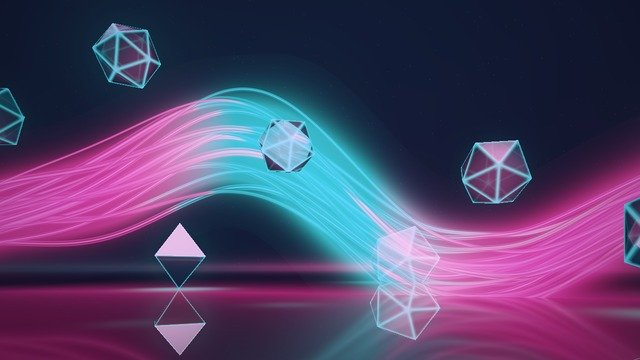
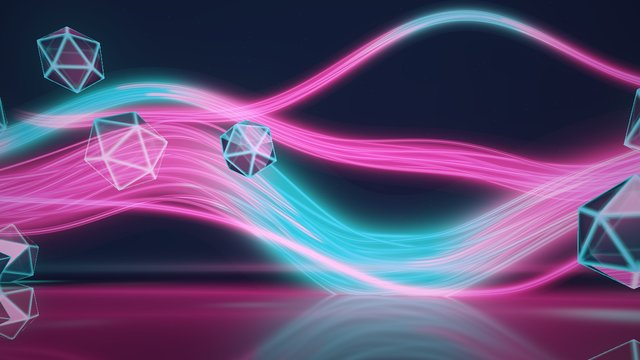
Ribbons: several ribbons of different sizes, flowing both ways
Syd: "There should be multiple ribbons of non uniform size. Some of the
shapes should travel right and not left."

- Four ribbons instead of one, of clearly different sizes: the big hero
  sheaf (18 strands) runs low through the middle, a medium one (12) rides
  above and behind it, a thin thread (7) sits high at the back and a fine
  hairline (4) runs low up front. Each has its own height, depth and slow
  waves, so they cross with navy between them, as in the film's screens.
- Both directions: the hero and the hairline flow right to left; the
  medium ribbon and the thread flow left to right, and their cyan pulses
  race the way they flow. Three of the eight glass shapes now drift left
  to right, a little slower; the rest still go left.
- Each ribbon fires its cyan band at its own point in the beat, so the
  bands ripple through one after another instead of all at once. Pink at
  rest, eased in and out exactly as before; no raw bass or beat jumps.
- Cost: the ribbons are written out one by one so each one's settings fold
  at compile time, the small ones skip rays that can't reach them, and the
  floor and glass reflections show only the hero sheaf. About +23% over
  the previous Ribbons in the harness.

Only the Ribbons doc comment, shader block and thumbnail change. Compiles
in glslangValidator and Mesa; check-modes.sh passes with 16 modes.

diff --git a/VisualiserMac/Sources/VisualiserMac/Render/FunShaders.swift b/VisualiserMac/Sources/VisualiserMac/Render/FunShaders.swift
@@ -1575,31 +1575,40 @@ extension FunShaders {
 extension FunShaders {
     // MARK: - Ribbons
 
-    /// One braided sheaf of fine glowing silk strands (18 round strands, each a
-    /// few hairline fibres, around a luminous core) weaves through several
-    /// small clear glass polyhedra at different depths, in a dark navy room
-    /// above a glossy floor: the look of the screens in the AudioVane film.
-    /// The ribbon is hot pink at rest; every beat launches a band of bright
-    /// cyan that races right to left along the strands, some strands lighting
-    /// a moment before others so it shimmers through the sheaf, then shrinks
-    /// away strand by strand so the ribbon flows back to pink. Every band eases
-    /// in and out, with a soft head and tail. The glass is ray-traced
-    /// exactly (each shape is a set of paired face planes, so there is no
-    /// raymarching loop): solid clear faces that reflect the lights, refract
-    /// the ribbon behind them, catch pink light inside and burn cyan along
-    /// their edges, and shapes far from the lens's focus go soft. The floor
-    /// mirrors it all, pulses included. Colours are chosen to land as pink and
-    /// cyan after the NEON grade. The whole scene slides right to left past
-    /// the camera, so near glass and near stretches of ribbon cross faster
-    /// than far ones (parallax), and each shape comes back in from the right
-    /// once it has left. The slide speeds up with uScroll. Everything is
-    /// smoothed so nothing snaps from frame to frame: instead of the raw bass
-    /// and beat strength, a soft swell on the beat clock (easing in over about
-    /// a third of a beat, dying away over the next one or two) bends, widens
-    /// and brightens the ribbon and swells the glass; the glass turns and the
-    /// ribbon reshapes on an eased beat clock that never stops; the spectrum
-    /// shapes the ribbon gently along its length, and the treble makes the
-    /// edges and the dust sparkle a little.
+    /// Several braided sheaves of fine glowing silk, of clearly different
+    /// sizes, weave through small clear glass polyhedra at different depths
+    /// in a dark navy room above a glossy floor: the look of the screens in
+    /// the AudioVane film. A big hero sheaf (18 round strands, each a few
+    /// hairline fibres, around a luminous core) runs low through the middle;
+    /// a medium one (12 strands) rides above and behind it, a thin thread
+    /// sits high at the back and a fine hairline runs low up front. Each sits
+    /// at its own height and depth and undulates on its own slow waves, so
+    /// they cross with navy between them. The ribbons are hot pink at rest;
+    /// every beat launches a band of bright cyan that races along each one
+    /// the way it flows, some strands lighting a moment before others so it
+    /// shimmers through, then shrinks away strand by strand so the ribbon
+    /// flows back to pink. Each ribbon fires at its own point in the beat, so
+    /// the bands ripple through one after another rather than all at once,
+    /// and every band eases in and out with a soft head and tail. The glass
+    /// is ray-traced exactly (each shape is a set of paired face planes, so
+    /// there is no raymarching loop): solid clear faces that reflect the
+    /// lights, refract the hero ribbon behind them, catch pink light inside
+    /// and burn cyan along their edges, and shapes far from the lens's focus
+    /// go soft. The floor mirrors the hero ribbon and the glass, pulses
+    /// included, and glows pink under the ribbons. Colours are chosen to land
+    /// as pink and cyan after the NEON grade. The scene slides past the
+    /// camera in both directions: the hero and the low hairline flow right to
+    /// left, the medium ribbon and the high thread flow left to right, and
+    /// most glass drifts left while three shapes drift right, a little
+    /// slower. Near glass and near stretches of ribbon cross faster than far
+    /// ones (parallax), and each shape comes back in from the other side once
+    /// it has left. The slide speeds up with uScroll. Everything is smoothed
+    /// so nothing snaps from frame to frame: instead of the raw bass and beat
+    /// strength, a soft swell on the beat clock (easing in over about a third
+    /// of a beat, dying away over the next one or two) bends, widens and
+    /// brightens the ribbons and swells the glass; the glass turns and the
+    /// ribbons reshape on an eased beat clock that never stops; the treble
+    /// makes the edges and the dust sparkle a little.
     /// In silence it dims and goes pink with no pulses, but keeps a slow drift
     /// (on uClock), by design.
     static let ribbons = """
@@ -1654,17 +1663,43 @@ extension FunShaders {
         return (swellAt(ph) + swellAt(ph + 1.0) + swellAt(ph + 2.0) + swellAt(ph + 3.0)) * 1.2 * uActive;
     }
     float gSwell;   // beatSwell(), worked out once per pixel at the top of main()
+    float gSpec;    // the low end of the spectrum, worked out once per pixel
 
-    // How cyan the ribbon is at x (position across its sheet) for a strand that
-    // lights `delay` beats late: every beat launches a band of bright cyan that
-    // races right to left along the strands. It's born off screen to the right,
-    // eases in, and fades out again over the next beat and a half, with a soft
-    // head (`sharp`) and a long soft tail, so the ribbon flows back to pink
-    // without a snap. The band from the beat before is still on its way out.
-    // In silence there are none.
+    // The ribbons, from one big hero sheaf down to thin threads, each at its own
+    // height and depth with its own slow undulation. Some flow left with the
+    // scene, some flow right against it, and their pulses race the way they flow.
+    //  x: base height  y: wave height  z: half-width of the sheaf  w: strands
+    const vec4 kRibShape[4] = vec4[4](
+        vec4(0.08, 0.32, 0.24, 18.0),
+        vec4(0.95, 0.34, 0.145, 12.0),
+        vec4(-0.26, 0.24, 0.014, 4.0),
+        vec4(1.9, 0.45, 0.07, 7.0));
+    //  x: strand radius  y: flow (+ left, - right, and how fast)  z: depth  w: depth swing
+    const vec4 kRibFlow[4] = vec4[4](
+        vec4(0.036, 1.0, 0.1, 0.65),
+        vec4(0.028, -0.8, 1.55, 0.5),
+        vec4(0.006, 1.3, -1.05, 0.3),
+        vec4(0.018, -0.6, 2.7, 0.4));
+    //  x, y: wave frequencies  z: phase  w: beat offset of its pulses
+    const vec4 kRibWave[4] = vec4[4](
+        vec4(1.2, 2.28, 0.0, 0.0),
+        vec4(0.85, 1.85, 1.7, 0.37),
+        vec4(1.55, 2.9, 3.1, 0.61),
+        vec4(0.75, 1.6, 4.4, 0.83));
+
+    // How far ribbon k's pattern has slid along itself.
+    float ribbonShift(int k) { return sceneShift() * kRibFlow[k].y; }
+
+    // How cyan the ribbon is at x (position across its sheet, measured the way it
+    // flows) for a strand that lights `delay` beats late: every beat launches a
+    // band of bright cyan that races along the strands, born off screen, easing
+    // in and fading out again over the next beat and a half, with a soft head
+    // (`sharp`) and a long soft tail, so the ribbon flows back to pink without a
+    // snap. Each ribbon's bands set off at their own point in the beat (`off`),
+    // so they never all fire at once. In silence there are none.
     float pulseAmp(float ph) { return smoothstep(0.0, 0.2, ph) * (1.0 - smoothstep(0.45, 1.5, ph)); }
-    float ribbonPulse(float x, float delay, float spd, float energy, float sharp) {
-        float ph = fract(uBeats) - delay;
+    float ribbonPulse(float x, float off, float delay, float spd, float energy, float sharp) {
+        float ph = fract(uBeats - off) - delay;
         float s0 = x - 4.4 + spd * ph;                      // behind this beat's front
         float s1 = s0 + spd;                                // ... and the last beat's
         float p0 = exp(-max(s0 - 1.1, 0.0) * 1.2 - max(-s0, 0.0) * sharp) * pulseAmp(ph);
@@ -1672,41 +1707,47 @@ extension FunShaders {
         return max(p0, p1) * energy;
     }
 
-    // Light from the ribbon at point q on its plane: one braided sheaf of fine
+    // Light from ribbon k at point q on its plane: a braided sheaf of fine
     // glowing strands, hot pink, with cyan pulses racing through it on the beat.
     // soft > 0 blurs it, for reflections in the floor.
-    vec3 ribbonLight(vec2 q, float soft) {
+    vec3 ribbonLight(vec2 q, float soft, int k) {
+        vec4 shp = kRibShape[k], flw = kRibFlow[k], wav = kRibWave[k];
+        float dir = sign(flw.y);
+        float size = shp.z / 0.3;                            // 1 for the hero sheaf
         float turn = beatTurn();
-        float X = q.x + sceneShift();                        // position along the ribbon, sliding left
-        float x01 = clamp(q.x / 7.0 + 0.5, 0.0, 1.0);
+        float X = q.x + ribbonShift(k);                      // position along the ribbon
+        float xf = q.x * dir;                                // ... measured the way it flows
         float edge = smoothstep(-4.8, -3.6, q.x) * smoothstep(4.8, 3.6, q.x);
-        float spec = 0.55 * (ribbonSpec(0.05) + ribbonSpec(0.15) + ribbonSpec(0.25)) / 3.0
-                   + 0.45 * (ribbonSpec(0.02 + x01 * 0.5) + ribbonSpec(0.1 + x01 * 0.5) + ribbonSpec(0.18 + x01 * 0.5)) / 3.0;
-        // Broad waves; bass bends the sheaf harder and each beat reshapes it a little.
-        float amp = (0.36 + 0.05 * spec + 0.2 * gSwell) * mix(0.75, 1.0, uActive);
-        float ph = turn * 0.45;
-        float s = uScroll * 0.3;                             // a gentle ripple along the ribbon on top of the slide
-        float a1 = X * 1.2 + s + ph;
-        float a2 = X * 2.28 - s * 0.6 + ph * 1.7;
-        float yc = 0.12 + amp * sin(a1) + amp * 0.35 * sin(a2);
-        float lo = kFloorY + 0.18;                           // skim the floor rather than sink into it
+        // Broad waves; the beat swell bends the sheaf a little harder.
+        float amp = shp.y * (1.0 + (0.14 * gSpec + 0.55 * gSwell) * size) * mix(0.75, 1.0, uActive);
+        float ph = turn * 0.45 + wav.z;
+        float s = uScroll * 0.3 * dir;                       // a gentle ripple along the ribbon on top of the slide
+        float a1 = X * wav.x + s + ph;
+        float a2 = X * wav.y - s * 0.6 + ph * 1.7;
+        float yc = shp.x + amp * sin(a1) + amp * 0.35 * sin(a2);
+        float lo = kFloorY + shp.z * 0.6 + 0.06;             // skim the floor rather than sink into it
         yc = 0.5 * (yc + lo + sqrt((yc - lo) * (yc - lo) + 0.004));
-        float slope = amp * 1.2 * (cos(a1) + 0.665 * cos(a2));
+        float slope = amp * (wav.x * cos(a1) + 0.35 * wav.y * cos(a2));
         float norm = inversesqrt(1.0 + slope * slope);
         float dc = abs(q.y - yc) * norm;
+        // Far from a small ribbon there's nothing left of its glow to draw.
+        if (k > 0 && dc > 1.4 * sqrt(size) + soft * 24.0) return vec3(0.0);
         // The sheaf twists as it travels: fanned wide where it faces you, gathered
         // where it turns, and each strand weaves a little on its own so they cross.
-        float width = 0.3 * (1.0 + 0.3 * gSwell) * (0.75 + 0.25 * sin(X * 0.6));
-        float twist = X * 0.55 - uScroll * 0.25 + turn * 0.2;
+        float width = shp.z * (1.0 + 0.3 * gSwell) * (0.75 + 0.25 * sin(X * 0.6 + wav.z));
+        float twist = X * 0.55 - uScroll * 0.25 * dir + turn * 0.2 + wav.z;
         float face = cos(twist);
-        const float sw = 0.036;                              // strand radius: fine silk
+        float sw = flw.x;                                    // strand radius: fine silk
         float energy = uActive;
         const float spd = 7.5;                               // world units per beat
         vec3 bundle = vec3(0.0);
-        float pc = smoothstep(0.15, 0.95, ribbonPulse(q.x, 0.06, spd, energy, 1.2));      // the wave through the sheaf as a whole
+        float pc = smoothstep(0.15, 0.95, ribbonPulse(xf, wav.w, 0.06, spd, energy, 1.2));   // the wave through the sheaf as a whole
+        vec3 hotC = mix(ribbonPink, ribbonCyan, pc);
         // Only pixels near the sheaf pay for its strands.
-        if (dc < width * 1.6 + 0.12 + soft * 12.0) {
+        if (dc < width * 1.6 + 0.12 * size + soft * 12.0) {
             vec3 strands = vec3(0.0);
+            int n = int(shp.w);
+            float fn = shp.w;
             // Per-strand phases advance by a fixed angle each strand (cheap rotations, not sin per strand).
             vec2 pw = vec2(sin(X * 0.8), cos(X * 0.8));      // thickness wobble, steps 1.3 rad per strand
             vec2 ps = vec2(sin(X * 0.9 - uScroll * 0.4), cos(X * 0.9 - uScroll * 0.4));   // shimmer, steps 2.3 rad
@@ -1714,9 +1755,10 @@ extension FunShaders {
             const mat2 stepS = mat2(-0.6663, -0.7457, 0.7457, -0.6663);
             float aa = max(soft, 0.0025);
             for (int i = 0; i < kStrands; i++) {
+                if (i >= n) break;
                 float fi = float(i);
                 float h1 = fract(fi * 0.6180), h2 = fract(fi * 0.7549 + 0.31), h3 = fract(fi * 0.5698 + 0.17);
-                float u = fi / float(kStrands - 1) * 2.0 - 1.0;
+                float u = fi / (fn - 1.0) * 2.0 - 1.0;
                 float off = width * (u * (0.5 + 0.5 * abs(face)) + 0.45 * sin(X * (1.1 + 0.25 * h1) + fi * 2.4 + turn * 0.3));
                 float sd = (q.y - yc - off) * norm;
                 float d = abs(sd);
@@ -1726,10 +1768,9 @@ extension FunShaders {
                 float tube = sqrt(1.0 - x * x);                       // round strand: hot in the middle, deep at the rim
                 // each strand is itself a few hairline fibres, read where it's sharp enough
                 float fib = mix(0.55 + 0.45 * cos(sd / (w + aa) * 9.4 + fi * 1.7), 1.0, smoothstep(0.3, 0.8, aa / w));
-                // some strands catch the wave before others, so it shimmers through the sheaf
-                // as a band fades, its strands drop back to pink one by one rather than
-                // all turning pale together
-                float pulse = smoothstep(0.08 + 0.55 * h2, 0.28 + 0.55 * h2, ribbonPulse(q.x, h3 * 0.14, spd, energy, 3.0));
+                // some strands catch the wave before others, so it shimmers through the sheaf;
+                // as a band fades, its strands drop back to pink one by one
+                float pulse = smoothstep(0.08 + 0.55 * h2, 0.28 + 0.55 * h2, ribbonPulse(xf, wav.w, h3 * 0.14, spd, energy, 3.0));
                 vec3 hot = mix(ribbonPink, ribbonCyan, pulse);
                 vec3 deep = mix(ribbonDeep, ribbonTeal, pulse);
                 float t2 = tube * tube, t8 = t2 * t2; t8 *= t8;
@@ -1740,36 +1781,61 @@ extension FunShaders {
                 pw = stepW * pw;
                 ps = stepS * ps;
             }
-            vec3 hotC = mix(ribbonPink, ribbonCyan, pc);
             // the strands' shared glow: bright through the sheaf, falling off outside it
-            float halo = 5.0 * exp(-max(dc - width * 0.9, 0.0) / (0.06 + soft * 3.0));
+            float halo = 5.0 * exp(-max(dc - width * 0.9, 0.0) / (0.06 * size + soft * 3.0));
             bundle = strands + hotC * halo * 0.15
-                   + hotC * mix(vec3(1.0, 0.55, 0.8), vec3(0.3, 1.0, 0.95), pc) * exp(-dc / (width * 0.45 + 0.02 + soft * 4.0)) * 0.55;   // thick luminous core
+                   + hotC * mix(vec3(1.0, 0.55, 0.8), vec3(0.3, 1.0, 0.95), pc) * exp(-dc / (width * 0.45 + 0.02 * size + soft * 4.0)) * 0.55;   // thick luminous core
         }
         // the glow the sheaf throws on the air around it
-        bundle += mix(ribbonPink, ribbonCyan, pc) * exp(-dc / (0.22 + soft * 4.0)) * 0.12;
+        bundle += hotC * exp(-dc / (0.2 * sqrt(size) + soft * 4.0)) * 0.08 * sqrt(size);
         float glow = (0.45 + 0.55 * uActive) * (0.95 + 0.3 * gSwell);
         return bundle * 1.1 * edge * glow / (1.0 + soft * 20.0);
     }
 
-    // The ribbons live on a curved sheet that slides left with the scene, so
+    // Each ribbon lives on its own curved sheet that slides with its flow, so
     // stretches of ribbon swing towards the camera (and move faster) and back
     // away again. Where a ray meets it (a few fixed-point steps), or -1.
-    float ribbonDepth(float x) { return 0.65 * sin((x + sceneShift()) * 0.45 + 0.9) + 0.1; }
-    float ribbonT(vec3 ro, vec3 rd) {
+    float ribbonDepth(float x, int k) {
+        return kRibFlow[k].z + kRibFlow[k].w * sin((x + ribbonShift(k)) * 0.45 + 0.9 + kRibWave[k].z);
+    }
+    float ribbonT(vec3 ro, vec3 rd, int k) {
         if (abs(rd.z) < 1e-3) return -1.0;
-        float t = (ribbonDepth(ro.x) - ro.z) / rd.z;
-        for (int i = 0; i < 4; i++) t = (ribbonDepth(ro.x + rd.x * max(t, 0.0)) - ro.z) / rd.z;
+        float t = (ribbonDepth(ro.x, k) - ro.z) / rd.z;
+        int steps = k == 0 ? 4 : 2;                          // the small ones' sheets bend less
+        for (int i = 0; i < 4; i++) {
+            if (i >= steps) break;
+            t = (ribbonDepth(ro.x + rd.x * max(t, 0.0), k) - ro.z) / rd.z;
+        }
         return t;
     }
 
-    // The ribbons as seen along a ray, or nothing if the ray doesn't reach them.
-    vec3 ribbonsAlong(vec3 ro, vec3 rd, float soft, float tMax) {
-        float t = ribbonT(ro, rd);
+    // One ribbon as seen along a ray, or nothing if the ray doesn't reach it.
+    // Blur is soft + softT per unit of distance, never thinner than a pixel.
+    vec3 ribbonAlong(vec3 ro, vec3 rd, float soft, float softT, float tMax, int k) {
+        if (k > 0) {
+            // A cheap first look: rays that pass well above or below the band
+            // this ribbon can wave through never reach its glow.
+            float t0 = (kRibFlow[k].z - ro.z) / rd.z;
+            float band = 2.6 * kRibShape[k].y + 1.4 * sqrt(kRibShape[k].z / 0.3)
+                       + abs(rd.y / rd.z) * kRibFlow[k].w * 1.2 + (soft + (abs(t0) + 3.0) * (softT + 0.7 / uResolution.y)) * 24.0;
+            if (abs(ro.y + rd.y * t0 - kRibShape[k].x) > band) return vec3(0.0);
+        }
+        float t = ribbonT(ro, rd, k);
         if (t <= 0.0 || t > tMax) return vec3(0.0);
         vec3 p = ro + rd * t;
         if (p.y < kFloorY) return vec3(0.0);
-        return ribbonLight(p.xy, soft + t * 0.7 / uResolution.y);   // never thinner than a pixel
+        return ribbonLight(p.xy, soft + t * (softT + 0.7 / uResolution.y), k);
+    }
+
+    // All the ribbons along a ray (they glow, so their light adds). Written out
+    // one by one, so each ribbon's settings are fixed when the shader compiles.
+    // Reflections in the floor and the glass (`all` false) show only the hero
+    // sheaf, which keeps the cost down.
+    vec3 ribbonsAlong(vec3 ro, vec3 rd, float soft, float softT, float tMax, bool all) {
+        vec3 acc = ribbonAlong(ro, rd, soft, softT, tMax, 0);
+        if (all) acc += ribbonAlong(ro, rd, soft, softT, tMax, 1) + ribbonAlong(ro, rd, soft, softT, tMax, 2)
+                      + ribbonAlong(ro, rd, soft, softT, tMax, 3);
+        return acc;
     }
 
     // The room: deep navy, a little lighter up high, a faint pink haze behind the
@@ -1804,10 +1870,11 @@ extension FunShaders {
     }
 
     // Where each glass shape is, how it's turned, and how big it is. Each one
-    // sits at its own depth and slides left with the scene; once it's off the
-    // left edge it comes back in from the right (a little higher or lower, a bit
-    // bigger or smaller, turned differently), so the stream never runs dry. The
-    // starting points are staggered so the shapes don't travel as one clump.
+    // sits at its own depth and slides with the scene, most of them left and a
+    // few the other way; once it's off one edge it comes back in from the other
+    // (a little higher or lower, a bit bigger or smaller, turned differently),
+    // so the stream never runs dry. The starting points are staggered so the
+    // shapes don't travel as one clump.
     void gemPose(int j, out vec3 c, out vec2 ang, out float r, out int faces) {
         float fj = float(j);
         if (j == 0)      { c = vec3(0.0, -0.40, -1.10); r = 0.17; faces = 10; }
@@ -1821,7 +1888,9 @@ extension FunShaders {
         // Wrap span: wide enough that the jump happens off screen at this depth.
         float depth = c.z + 3.4;
         float span = 2.0 * (depth * 0.85 + r) + 0.4;
-        float x = fract(fj * 0.375 + 0.62) * span - sceneShift();
+        // Three of them drift the other way, left to right, a little slower.
+        float flow = (j == 1 || j == 3 || j == 6) ? -0.7 : 1.0;
+        float x = fract(fj * 0.375 + 0.62) * span - sceneShift() * flow;
         float lap = floor(x / span);
         c.x = x - lap * span - 0.5 * span;
         float lh = hash11(lap * 3.7 + fj * 11.3);
@@ -1949,13 +2018,13 @@ extension FunShaders {
                 behind = skyColour(fromGem(reflect(d1, -nf2), ang)) * 1.3;
             } else {
                 vec3 wd2 = fromGem(d2, ang);
-                behind = skyColour(wd2) + ribbonsAlong(wOut, wd2, 0.002, 30.0) * 0.7;
+                behind = skyColour(wd2) + ribbonsAlong(wOut, wd2, 0.002, 0.0, 30.0, false) * 0.7;
             }
             col += behind * vec3(0.8, 1.0, 1.05) * (1.0 - fres) * (1.0 + 0.5 * facet);
             vec2 edgeBack = gemEdge(pOut, faces, h, edgeW * 1.2);
             // A ribbon passing through the glass lights it from inside.
-            float tz = ribbonT(ro, rd);
-            if (tz > tHit && tz < tHit + (tf - tn)) col += ribbonLight((ro + rd * tz).xy, 0.0) * 0.6;
+            float tz = ribbonT(ro, rd, 0);
+            if (tz > tHit && tz < tHit + (tf - tn)) col += ribbonLight((ro + rd * tz).xy, 0.0, 0) * 0.6;
             col += glassCyan * (edgeBack.x * 0.12 + edgeBack.y * 0.15) * lit * (1.0 - 0.7 * blur);
         }
         vec2 edgeGlow = gemEdge(pIn, faces, h, min(edgeW * 3.0, h * 0.08));
@@ -1967,6 +2036,7 @@ extension FunShaders {
 
     void main() {
         gSwell = beatSwell();
+        gSpec = (ribbonSpec(0.05) + ribbonSpec(0.15) + ribbonSpec(0.25)) / 3.0;
         vec2 p = screenP();
         // Camera sits low by the glossy floor and sways slowly (on the
         // sound-gated clock); it leans in a little on the bass.
@@ -1997,18 +2067,18 @@ extension FunShaders {
             vec3 refl = skyColour(rr) * 0.8;
             int j2; float t2;
             if (nearestGem(fp, rr, 40.0, j2, t2)) refl = shadeGem(j2, fp, rr, t2, false);
-            float tr = ribbonT(fp, rr);
             vec3 glassPool;
-            refl += ribbonsAlong(fp, rr, 0.01 + 0.035 * max(tr, 0.0), 40.0) + gemHalo(fp, rr, 40.0, glassPool) * 2.0;
+            refl += ribbonsAlong(fp, rr, 0.01, 0.035, 40.0, false) + gemHalo(fp, rr, 40.0, glassPool) * 2.0;
             col = vec3(0.002, 0.006, 0.014) + refl * fres * 0.75;
             // the ribbons' light pooling on the floor beneath them
-            float pool = exp(-abs(fp.z - ribbonDepth(fp.x)) * 0.8) * smoothstep(-4.8, -2.5, fp.x) * smoothstep(4.8, 2.5, fp.x);
+            float pool = (exp(-abs(fp.z - ribbonDepth(fp.x, 0)) * 0.8) + 0.35 * exp(-abs(fp.z - ribbonDepth(fp.x, 2)) * 1.6))
+                       * smoothstep(-4.8, -2.5, fp.x) * smoothstep(4.8, 2.5, fp.x);
             col += ribbonPink * 0.6 * pool * (0.4 + 0.6 * uActive) * (0.85 + 0.25 * gSwell);
             col += glassPool * 0.8 * (0.4 + 0.6 * uActive);
             col = mix(col, skyColour(rd), smoothstep(8.0, 30.0, tFloor));
         }
         // Ribbons in front of whatever we hit.
-        col += ribbonsAlong(ro, rd, 0.0, tEnd);
+        col += ribbonsAlong(ro, rd, 0.0, 0.0, tEnd, true);
         vec3 unused;
         col += gemHalo(ro, rd, tEnd, unused);
         col += ribbonPink * gSwell * 0.015;
